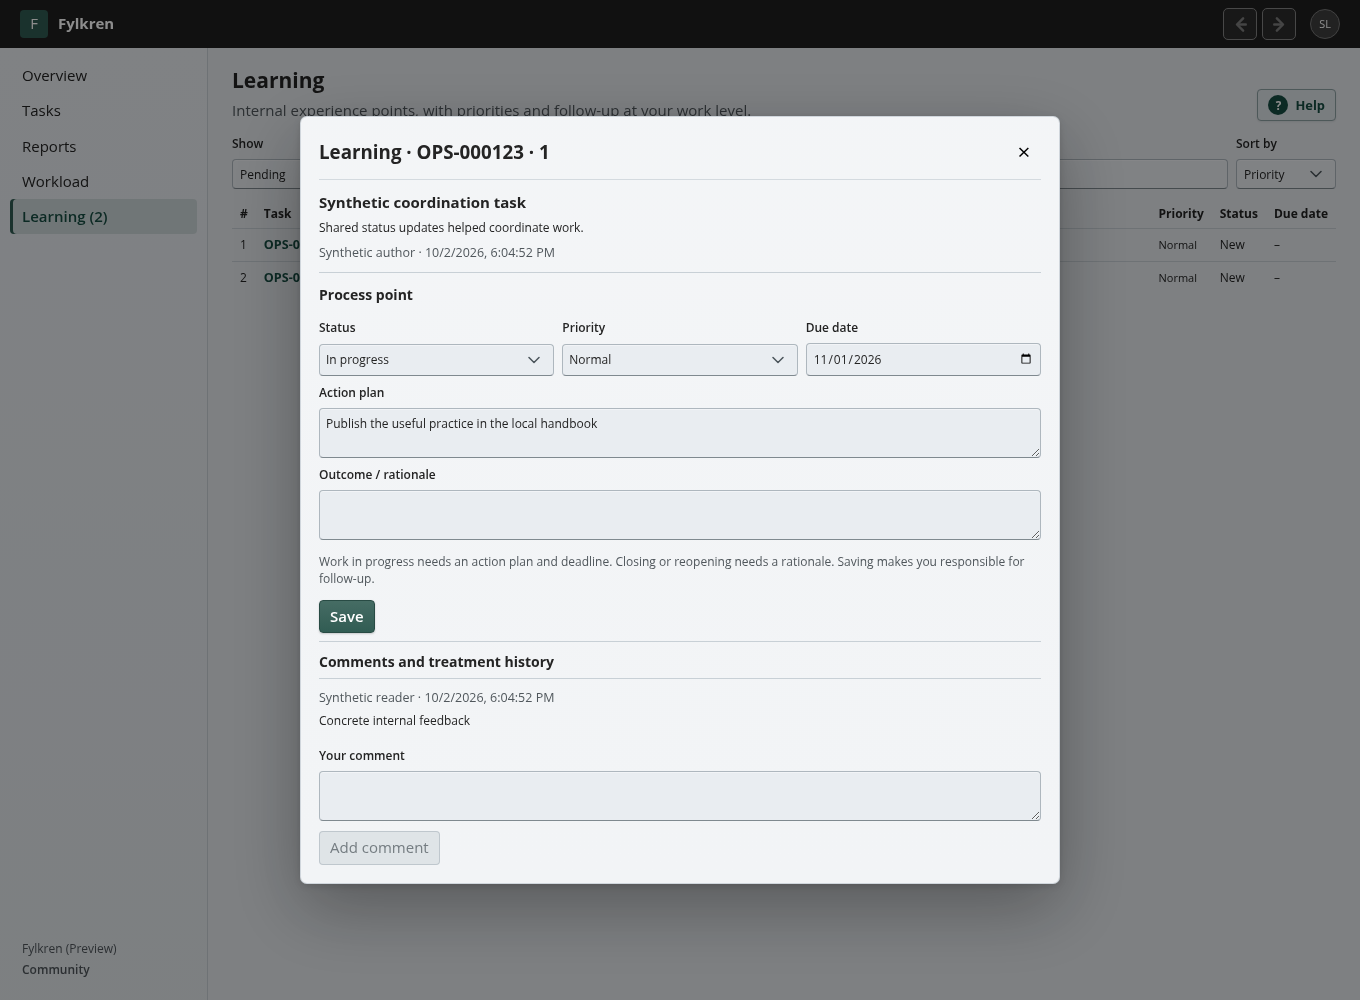
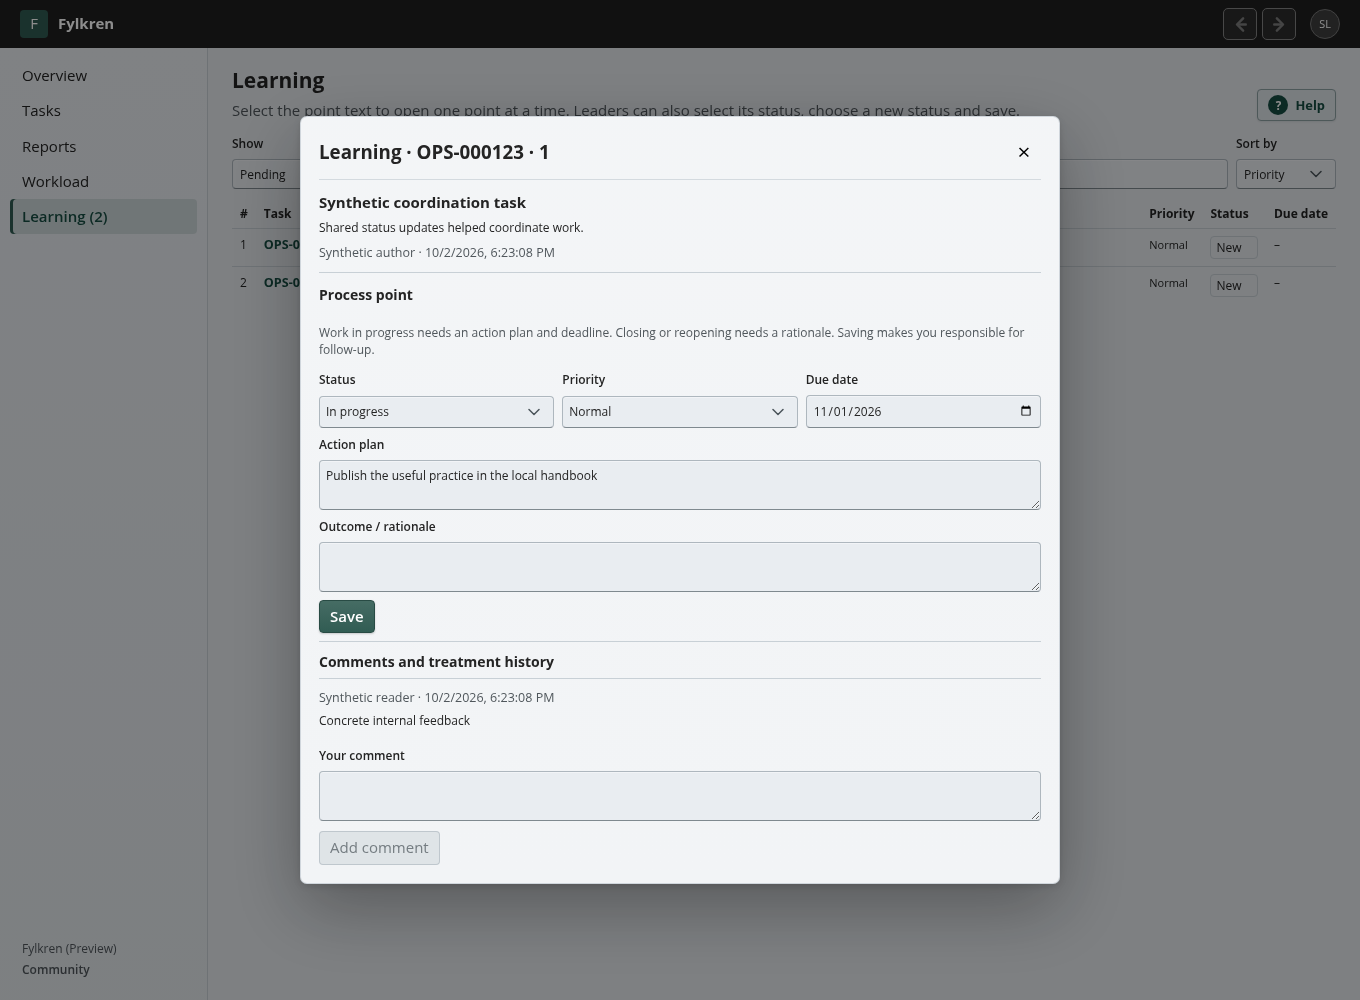
fix: clarify individual learning treatment and status changes

diff --git a/apps/web/src/learning/LessonDetails.tsx b/apps/web/src/learning/LessonDetails.tsx
@@ -48,6 +48,7 @@ export function LessonDetails({ lesson, language, timeZone, onClose, onReviewed 
       {error && <p className="status-message error-message" role="alert">{error}</p>}
       {lesson.canManage ? <form className="stacked-form learning-review" onSubmit={submitReview}>
         <h3>{t("learningReview")}</h3>
+        <p className="muted">{t("learningReviewHint")}</p>
         <div className="learning-review-fields">
           <div className="field"><label htmlFor="lesson-status">{t("approvalStatus")}</label><select id="lesson-status" disabled={busy} value={review.status} onChange={event => setReview({ ...review, status: event.target.value as LessonStatus, treatmentNote: ["implemented", "dismissed"].includes(lesson.status) && ["new", "in_progress"].includes(event.target.value) ? "" : review.treatmentNote })}>{Object.entries(lessonStatusKeys).map(([status, key]) => <option value={status} key={status}>{t(key)}</option>)}</select></div>
           <div className="field"><label htmlFor="lesson-priority">{t("learningPriority")}</label><select id="lesson-priority" disabled={busy} value={review.priority} onChange={event => setReview({ ...review, priority: event.target.value as LessonPriority })}>{Object.entries(lessonPriorityKeys).map(([priority, key]) => <option value={priority} key={priority}>{t(key)}</option>)}</select></div>
@@ -55,9 +56,8 @@ export function LessonDetails({ lesson, language, timeZone, onClose, onReviewed 
         </div>
         <div className="field"><label htmlFor="lesson-plan">{t("learningActionPlan")}</label><textarea id="lesson-plan" rows={2} maxLength={2000} disabled={busy} value={review.actionPlan} onChange={event => setReview({ ...review, actionPlan: event.target.value })}/></div>
         <div className="field"><label htmlFor="lesson-note">{t("learningTreatmentNote")}</label><textarea id="lesson-note" rows={2} maxLength={4000} disabled={busy} value={review.treatmentNote} onChange={event => setReview({ ...review, treatmentNote: event.target.value })}/></div>
-        <p className="muted">{t("learningReviewHint")}</p>
         <div><button className="primary-button" disabled={busy || !validLessonReview(review, lesson.status, lesson.treatmentNote)}>{t("save")}</button></div>
-      </form> : <div className="learning-current-review"><strong>{t(lessonStatusKeys[lesson.status])} · {t(lessonPriorityKeys[lesson.priority])}</strong><p className="learning-text">{lesson.actionPlan}</p><p className="learning-text">{lesson.treatmentNote}</p>{lesson.dueOn && <p>{t("riskDueDate")}: {lesson.dueOn}</p>}</div>}
+      </form> : <div className="learning-current-review"><p className="muted">{t("learningReadOnlyHint")}</p><strong>{t(lessonStatusKeys[lesson.status])} · {t(lessonPriorityKeys[lesson.priority])}</strong><p className="learning-text">{lesson.actionPlan}</p><p className="learning-text">{lesson.treatmentNote}</p>{lesson.dueOn && <p>{t("riskDueDate")}: {lesson.dueOn}</p>}</div>}
       <h3>{t("learningHistory")}</h3>
       {!entries ? <p className="muted">{t("loading")}</p> : <>
         <ol className="learning-history">{entries.items.map(entry => <li key={entry.id}>

diff --git a/apps/web/src/learning/LearningPage.tsx b/apps/web/src/learning/LearningPage.tsx
@@ -67,8 +67,8 @@ export function LearningPage({ language, timeZone, permalink }: { language: stri
     {!!data?.items.length && <div className="learning-table-scroll" aria-busy={loading}><table className="learning-table"><thead><tr><th>#</th><th>{t("approvalTask")}</th><th>{t("learningKind")}</th><th>{t("navLearning")}</th><th>{t("learningPriority")}</th><th>{t("approvalStatus")}</th><th>{t("riskDueDate")}</th></tr></thead><tbody>{data.items.map(lesson => <tr key={lesson.id}>
       <td>{lesson.number}</td><td><a href={buildAppHash({ page: "Tasks", siteId: lesson.siteId, itemId: lesson.workItemId })} title={lesson.workTitle}><WorkReference referenceCode={lesson.workReference}/></a></td>
       <td className="learning-kind-cell"><span className={`learning-kind-light learning-kind-${lesson.kind}`} role="img" aria-label={t(lesson.kind === "positive" ? "learningPositive" : "learningImprovement")} title={t(lesson.kind === "positive" ? "learningPositive" : "learningImprovement")}><span aria-hidden="true">{lesson.kind === "positive" ? "+" : "!"}</span></span></td>
-      <td><button className="learning-point-title" type="button" onClick={() => setSelected(lesson)}>{lesson.text}</button>{lesson.ownerName && <small className="muted">{lesson.ownerName}</small>}</td>
-      <td><span className={`learning-priority learning-priority-${lesson.priority}`}>{t(lessonPriorityKeys[lesson.priority])}</span></td><td>{t(lessonStatusKeys[lesson.status])}</td>
+      <td><button className="learning-point-title" type="button" title={t(lesson.canManage ? "learningReview" : "learningHistory")} onClick={() => setSelected(lesson)}><span aria-hidden="true">▸ </span>{lesson.text}</button>{lesson.ownerName && <small className="muted">{lesson.ownerName}</small>}</td>
+      <td><span className={`learning-priority learning-priority-${lesson.priority}`}>{t(lessonPriorityKeys[lesson.priority])}</span></td><td>{lesson.canManage ? <button className="learning-status-action" type="button" title={t("learningReview")} onClick={() => setSelected(lesson)}>{t(lessonStatusKeys[lesson.status])}<span aria-hidden="true"> ▾</span></button> : t(lessonStatusKeys[lesson.status])}</td>
       <td className={lesson.dueOn && lesson.dueOn < today && ["new", "in_progress"].includes(lesson.status) ? "learning-overdue" : ""}>{lesson.dueOn ? new Date(`${lesson.dueOn}T12:00:00`).toLocaleDateString(language) : "–"}</td>
     </tr>)}</tbody></table></div>}
     {data && <PaginationNav page={data.page} totalItems={data.total} onPageChange={setPage} label={t("navLearning")}/>}

diff --git a/apps/web/test-fixtures/learning-preview.jsx b/apps/web/test-fixtures/learning-preview.jsx
@@ -8,7 +8,8 @@ import { navigationCountLabel, useNavigationCounts } from "../src/app/useNavigat
 import { apiMutate } from "../src/api/client";
 import "@fylkren/ui";
 const now = new Date().toISOString();
-const makeLesson = (id, number, kind, text) => ({ id, number, kind, text, siteId: "site", unitId: "unit", workItemId: "task", workReference: "OPS-000123", workTitle: "Synthetic coordination task", authorName: "Synthetic author", createdAt: now, updatedAt: now, status: "new", priority: "normal", actionPlan: "", treatmentNote: "", dueOn: null, ownerName: null, version: 1, canManage: true });
+const canManage = new URLSearchParams(location.search).get("role") !== "reader";
+const makeLesson = (id, number, kind, text) => ({ id, number, kind, text, siteId: "site", unitId: "unit", workItemId: "task", workReference: "OPS-000123", workTitle: "Synthetic coordination task", authorName: "Synthetic author", createdAt: now, updatedAt: now, status: "new", priority: "normal", actionPlan: "", treatmentNote: "", dueOn: null, ownerName: null, version: 1, canManage });
 let lessons = [makeLesson("point-one", 1, "positive", "Shared status updates helped coordinate work."), makeLesson("point-two", 2, "improvement", "Handover information arrived too late.")];
 const entries = new Map();
 window.testReportPayload = null;

diff --git a/apps/web/src/localization/catalogs/uk-UA/sections/learning.ts b/apps/web/src/localization/catalogs/uk-UA/sections/learning.ts
@@ -1,7 +1,8 @@
 export const learning = {
+  "learningReadOnlyHint": "Ви можете читати й коментувати цей пункт. Лише керівники на його робочому рівні можуть змінювати статус, пріоритет і опрацювання.",
   "learningKind": "Категорія",
   "navLearning": "Навчання",
-  "learningIntro": "Внутрішні висновки з пріоритетами та подальшими діями на вашому робочому рівні.",
+  "learningIntro": "Натисніть текст, щоб відкрити один пункт. Керівники також можуть натиснути статус, вибрати новий статус і зберегти.",
   "learningInternal": "Внутрішні висновки зберігаються окремо й не входять до підсумкових звітів або звітів вищим рівням.",
   "learningPositive": "Що спрацювало добре?",
   "learningImprovement": "Що можна покращити?",

diff --git a/shared/frontend/src/learning.css b/shared/frontend/src/learning.css
@@ -19,6 +19,9 @@
 .learning-point-title { display: -webkit-box; -webkit-line-clamp: 2; -webkit-box-orient: vertical; overflow: hidden; line-height: 1.4; padding: 0; background: none; border: 0; text-align: left; color: inherit; font: inherit; cursor: pointer; white-space: pre-wrap; overflow-wrap: anywhere; }
 .learning-point-title:hover { text-decoration: underline; }
 .learning-point-title:focus-visible { outline: 2px solid var(--brand); outline-offset: 3px; }
+.learning-status-action { padding: 2px 5px; color: inherit; background: transparent; border: 1px solid var(--border); border-radius: 4px; font: inherit; cursor: pointer; white-space: nowrap; }
+.learning-status-action:hover { border-color: var(--brand); }
+.learning-status-action:focus-visible { outline: 2px solid var(--brand); outline-offset: 2px; }
 .learning-priority { font-size: 11px; }
 .learning-priority-high, .learning-overdue { font-weight: 700; color: var(--danger, #ad2525); }
 .learning-priority-low { opacity: .75; }

diff --git a/apps/web/src/localization/catalogs/fr-FR/sections/learning.ts b/apps/web/src/localization/catalogs/fr-FR/sections/learning.ts
@@ -1,7 +1,8 @@
 export const learning = {
+  "learningReadOnlyHint": "Vous pouvez lire et commenter ce point. Seuls les responsables de son niveau de travail peuvent modifier son statut, sa priorité et son traitement.",
   "learningKind": "Catégorie",
   "navLearning": "Apprentissage",
-  "learningIntro": "Enseignements internes, priorités et suivi à votre niveau de travail.",
+  "learningIntro": "Cliquez sur le texte pour ouvrir un point à la fois. Les responsables peuvent aussi cliquer sur son statut, choisir un nouveau statut et enregistrer.",
   "learningInternal": "Les enseignements internes sont stockés séparément et exclus des rapports finaux et des rapports aux niveaux supérieurs.",
   "learningPositive": "Qu’est-ce qui a bien fonctionné ?",
   "learningImprovement": "Que peut-on améliorer ?",

diff --git a/apps/web/src/localization/catalogs/de-DE/sections/learning.ts b/apps/web/src/localization/catalogs/de-DE/sections/learning.ts
@@ -1,7 +1,8 @@
 export const learning = {
+  "learningReadOnlyHint": "Sie können diesen Punkt lesen und kommentieren. Nur Führungskräfte auf seiner Arbeitsebene können Status, Priorität und Bearbeitung ändern.",
   "learningKind": "Kategorie",
   "navLearning": "Lernen",
-  "learningIntro": "Interne Erkenntnisse mit Prioritäten und Nachverfolgung auf Ihrer Arbeitsebene.",
+  "learningIntro": "Klicken Sie auf den Punkttext, um jeweils einen Punkt zu öffnen. Führungskräfte können auch den Status anklicken, einen neuen Status wählen und speichern.",
   "learningInternal": "Interne Erkenntnisse werden getrennt gespeichert und nicht in Abschlussberichte oder Berichte an höhere Ebenen aufgenommen.",
   "learningPositive": "Was lief gut?",
   "learningImprovement": "Was könnte verbessert werden?",

diff --git a/apps/web/src/localization/catalogs/pt-PT/sections/learning.ts b/apps/web/src/localization/catalogs/pt-PT/sections/learning.ts
@@ -1,7 +1,8 @@
 export const learning = {
+  "learningReadOnlyHint": "Pode ler e comentar este ponto. Apenas os responsáveis do seu nível de trabalho podem alterar o estado, a prioridade e o tratamento.",
   "learningKind": "Categoria",
   "navLearning": "Aprendizagem",
-  "learningIntro": "Lições internas com prioridades e acompanhamento no seu nível de trabalho.",
+  "learningIntro": "Clique no texto para abrir um ponto de cada vez. Os responsáveis também podem clicar no estado, escolher um novo estado e guardar.",
   "learningInternal": "As lições internas são guardadas separadamente e não são incluídas nos relatórios finais nem nos relatórios a níveis superiores.",
   "learningPositive": "O que correu bem?",
   "learningImprovement": "O que pode melhorar?",

diff --git a/apps/web/src/localization/catalogs/it-IT/sections/learning.ts b/apps/web/src/localization/catalogs/it-IT/sections/learning.ts
@@ -1,7 +1,8 @@
 export const learning = {
+  "learningReadOnlyHint": "Puoi leggere e commentare questo punto. Solo i responsabili del suo livello di lavoro possono modificare stato, priorità e gestione.",
   "learningKind": "Categoria",
   "navLearning": "Apprendimento",
-  "learningIntro": "Lezioni interne con priorità e monitoraggio al proprio livello di lavoro.",
+  "learningIntro": "Fai clic sul testo per aprire un punto alla volta. I responsabili possono anche selezionare lo stato, sceglierne uno nuovo e salvare.",
   "learningInternal": "Le lezioni interne sono salvate separatamente e non sono incluse nei rapporti finali o nei rapporti ai livelli superiori.",
   "learningPositive": "Cosa ha funzionato bene?",
   "learningImprovement": "Cosa si potrebbe migliorare?",

diff --git a/apps/web/src/localization/catalogs/ro-RO/sections/learning.ts b/apps/web/src/localization/catalogs/ro-RO/sections/learning.ts
@@ -1,7 +1,8 @@
 export const learning = {
+  "learningReadOnlyHint": "Puteți citi și comenta acest punct. Doar liderii de la nivelul său de lucru pot modifica starea, prioritatea și tratarea.",
   "learningKind": "Categorie",
   "navLearning": "Învățare",
-  "learningIntro": "Lecții interne cu priorități și urmărire la nivelul dumneavoastră de lucru.",
+  "learningIntro": "Faceți clic pe text pentru a deschide câte un punct. Liderii pot selecta și starea, alege o stare nouă și salva.",
   "learningInternal": "Lecțiile interne sunt păstrate separat și nu sunt incluse în rapoartele finale sau în rapoartele către nivelurile superioare.",
   "learningPositive": "Ce a funcționat bine?",
   "learningImprovement": "Ce se poate îmbunătăți?",

diff --git a/apps/web/src/localization/catalogs/es-ES/sections/learning.ts b/apps/web/src/localization/catalogs/es-ES/sections/learning.ts
@@ -1,7 +1,8 @@
 export const learning = {
+  "learningReadOnlyHint": "Puede leer y comentar este punto. Solo los responsables de su nivel de trabajo pueden cambiar el estado, la prioridad y el tratamiento.",
   "learningKind": "Categoría",
   "navLearning": "Aprendizaje",
-  "learningIntro": "Lecciones internas con prioridades y seguimiento en su nivel de trabajo.",
+  "learningIntro": "Pulse el texto para abrir un punto cada vez. Los responsables también pueden pulsar su estado, elegir uno nuevo y guardar.",
   "learningInternal": "Las lecciones internas se guardan por separado y no se incluyen en informes finales ni en informes a niveles superiores.",
   "learningPositive": "¿Qué funcionó bien?",
   "learningImprovement": "¿Qué se podría mejorar?",

diff --git a/apps/web/src/localization/catalogs/pl-PL/sections/learning.ts b/apps/web/src/localization/catalogs/pl-PL/sections/learning.ts
@@ -1,7 +1,8 @@
 export const learning = {
+  "learningReadOnlyHint": "Możesz czytać i komentować ten punkt. Tylko kierownicy na jego poziomie pracy mogą zmieniać status, priorytet i sposób obsługi.",
   "learningKind": "Kategoria",
   "navLearning": "Wnioski",
-  "learningIntro": "Wewnętrzne wnioski z priorytetami i monitorowaniem na Twoim poziomie pracy.",
+  "learningIntro": "Kliknij tekst, aby otworzyć jeden punkt naraz. Kierownicy mogą również kliknąć status, wybrać nowy status i zapisać.",
   "learningInternal": "Wewnętrzne wnioski są zapisywane oddzielnie i nie trafiają do raportów końcowych ani raportowania do wyższych poziomów.",
   "learningPositive": "Co zadziałało dobrze?",
   "learningImprovement": "Co można poprawić?",
